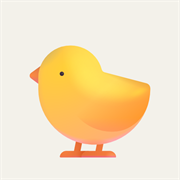
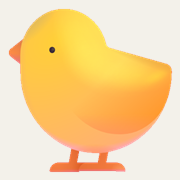
하단바 색을 맞추고 홈 화면용 병아리 아이콘을 투명하게 한다.

Changed region(s): [[0.0278, 0.0278, 0.9722, 0.9722], [0.4722, 0.4444, 0.8056, 0.5556], [0.3333, 0.3889, 0.3611, 0.4444]]

diff --git a/src/NavColorTest.tsx b/src/NavColorTest.tsx
@@ -1,0 +1,71 @@
+import { Link } from 'react-router-dom'
+
+const PALETTES = [
+  { name: '체리빨강 / sorbet핑크', wish: '#c43c3c', record: '#e45a96' },
+  { name: '벽돌 / 로즈', wish: '#b54a42', record: '#d4789c' },
+  { name: '루비 / 베이비핑크', wish: '#a8324a', record: '#f09bb8' },
+  { name: '테라코타 / 더스티로즈', wish: '#c45c3e', record: '#c96b86' },
+  { name: '와인 / 연핑크', wish: '#8e2f3c', record: '#e8a0b5' },
+  { name: '산호 / 핫핑크', wish: '#e06b5c', record: '#e0569a' },
+  { name: '딥레드 / 말린장미', wish: '#9b2c2c', record: '#c45d7a' },
+  { name: '토마토 / 피치핑크', wish: '#d94f3d', record: '#f3a6a0' },
+] as const
+
+function IconHeart() {
+  return (
+    <svg width="22" height="22" viewBox="0 0 24 24" fill="none" aria-hidden>
+      <path
+        d="M12 20s-7-4.4-7-9.2C5 8 6.8 6.2 9 6.2c1.3 0 2.4.6 3 1.6.6-1 1.7-1.6 3-1.6 2.2 0 4 1.8 4 4.6 0 4.8-7 9.2-7 9.2z"
+        stroke="currentColor"
+        strokeWidth="1.8"
+        strokeLinejoin="round"
+      />
+    </svg>
+  )
+}
+
+function IconPlus() {
+  return (
+    <svg width="22" height="22" viewBox="0 0 24 24" fill="none" aria-hidden>
+      <path d="M12 5v14M5 12h14" stroke="currentColor" strokeWidth="2.2" strokeLinecap="round" />
+    </svg>
+  )
+}
+
+export function NavColorTest() {
+  return (
+    <div className="page">
+      <header className="topbar">
+        <Link className="back" to="/">
+          ‹ 위시
+        </Link>
+      </header>
+      <h1 className="form-title" style={{ fontSize: 22 }}>
+        하단바 색 고르기
+      </h1>
+      <p className="meta" style={{ margin: '8px 0 18px' }}>
+        왼쪽이 위시, 오른쪽이 가격 기록이에요.
+      </p>
+      <div className="swatch-list">
+        {PALETTES.map((p) => (
+          <section className="swatch-card" key={p.name}>
+            <p className="swatch-name">{p.name}</p>
+            <p className="swatch-hex">
+              {p.wish} · {p.record}
+            </p>
+            <div className="swatch-nav">
+              <span className="swatch-item" style={{ color: p.wish }}>
+                <IconHeart />
+                위시
+              </span>
+              <span className="swatch-item" style={{ color: p.record }}>
+                <IconPlus />
+                가격 기록
+              </span>
+            </div>
+          </section>
+        ))}
+      </div>
+    </div>
+  )
+}

diff --git a/src/index.css b/src/index.css
@@ -716,7 +716,11 @@ a {
 }
 
 .nav a.active {
-  color: var(--teal);
+  color: #d94f3d;
+}
+
+.nav .nav-wish {
+  color: #d94f3d;
 }
 
 .nav-action {
@@ -725,16 +729,16 @@ a {
   padding: 0 8px;
 }
 
-.nav-add {
-  color: var(--teal);
+.nav .nav-add {
+  color: #f3a6a0;
 }
 
-.nav-record {
-  color: #3b6f8a;
+.nav .nav-record {
+  color: #5a9b45;
 }
 
-.nav-undo {
-  color: #a56b3c;
+.nav .nav-undo {
+  color: #c45c3e;
 }
 
 .form {
@@ -851,4 +855,48 @@ label {
   background: #ece4d4;
   color: var(--muted);
   font-size: 12px;
+}
+
+.swatch-list {
+  display: flex;
+  flex-direction: column;
+  gap: 12px;
+}
+
+.swatch-card {
+  background: var(--surface);
+  border: 1px solid var(--line);
+  border-radius: var(--radius);
+  box-shadow: var(--shadow);
+  padding: 14px 14px 10px;
+}
+
+.swatch-name {
+  margin: 0;
+  font-size: 14px;
+  font-weight: 800;
+}
+
+.swatch-hex {
+  margin: 4px 0 10px;
+  color: var(--muted);
+  font-size: 12px;
+}
+
+.swatch-nav {
+  display: grid;
+  grid-template-columns: 1fr 1fr;
+  border-top: 1px solid var(--line);
+  padding-top: 8px;
+}
+
+.swatch-item {
+  display: flex;
+  flex-direction: column;
+  align-items: center;
+  justify-content: center;
+  gap: 2px;
+  min-height: 52px;
+  font-size: 12px;
+  font-weight: 800;
 }

diff --git a/vite.config.ts b/vite.config.ts
@@ -12,10 +12,13 @@ export default defineConfig(({ command }) => ({
       registerType: 'autoUpdate',
       includeAssets: [
         'favicon.svg',
+        'favicon-32.png',
         'icon.svg',
         'apple-touch-icon.png',
         'pwa-192.png',
         'pwa-512.png',
+        'pwa-maskable-192.png',
+        'pwa-maskable-512.png',
       ],
       manifest: {
         name: 'Cheeep',
@@ -41,7 +44,13 @@ export default defineConfig(({ command }) => ({
             purpose: 'any',
           },
           {
-            src: 'pwa-512.png',
+            src: 'pwa-maskable-192.png',
+            sizes: '192x192',
+            type: 'image/png',
+            purpose: 'maskable',
+          },
+          {
+            src: 'pwa-maskable-512.png',
             sizes: '512x512',
             type: 'image/png',
             purpose: 'maskable',

diff --git a/src/App.tsx b/src/App.tsx
@@ -2,6 +2,7 @@ import { Navigate, Route, Routes } from 'react-router-dom'
 import { BuyForm } from './BuyForm'
 import { Home } from './Home'
 import { ItemDetail } from './ItemDetail'
+import { NavColorTest } from './NavColorTest'
 import { NewItem } from './NewItem'
 import { SightingForm } from './SightingForm'
 import { TargetForm } from './TargetForm'
@@ -17,6 +18,7 @@ export default function App() {
         <Route path="/items/:id/buy" element={<BuyForm />} />
         <Route path="/items/:id/record" element={<SightingForm />} />
         <Route path="/items/:id/record/:sid" element={<SightingForm />} />
+        <Route path="/nav-colors" element={<NavColorTest />} />
         <Route path="*" element={<Navigate to="/" replace />} />
       </Routes>
     </div>

diff --git a/src/BottomNav.tsx b/src/BottomNav.tsx
@@ -46,7 +46,7 @@ type Props = {
 export function BottomNav({ right }: Props) {
   return (
     <nav className="nav">
-      <NavLink to="/" end className={({ isActive }) => (isActive ? 'active' : '')}>
+      <NavLink to="/" end className={({ isActive }) => (isActive ? 'nav-wish active' : 'nav-wish')}>
         <IconHeart />
         위시
       </NavLink>

diff --git a/index.html b/index.html
@@ -2,6 +2,7 @@
 <html lang="ko">
   <head>
     <meta charset="UTF-8" />
+    <link rel="icon" type="image/png" sizes="32x32" href="/favicon-32.png" />
     <link rel="icon" type="image/svg+xml" href="/favicon.svg" />
     <link rel="apple-touch-icon" href="/apple-touch-icon.png" />
     <meta
